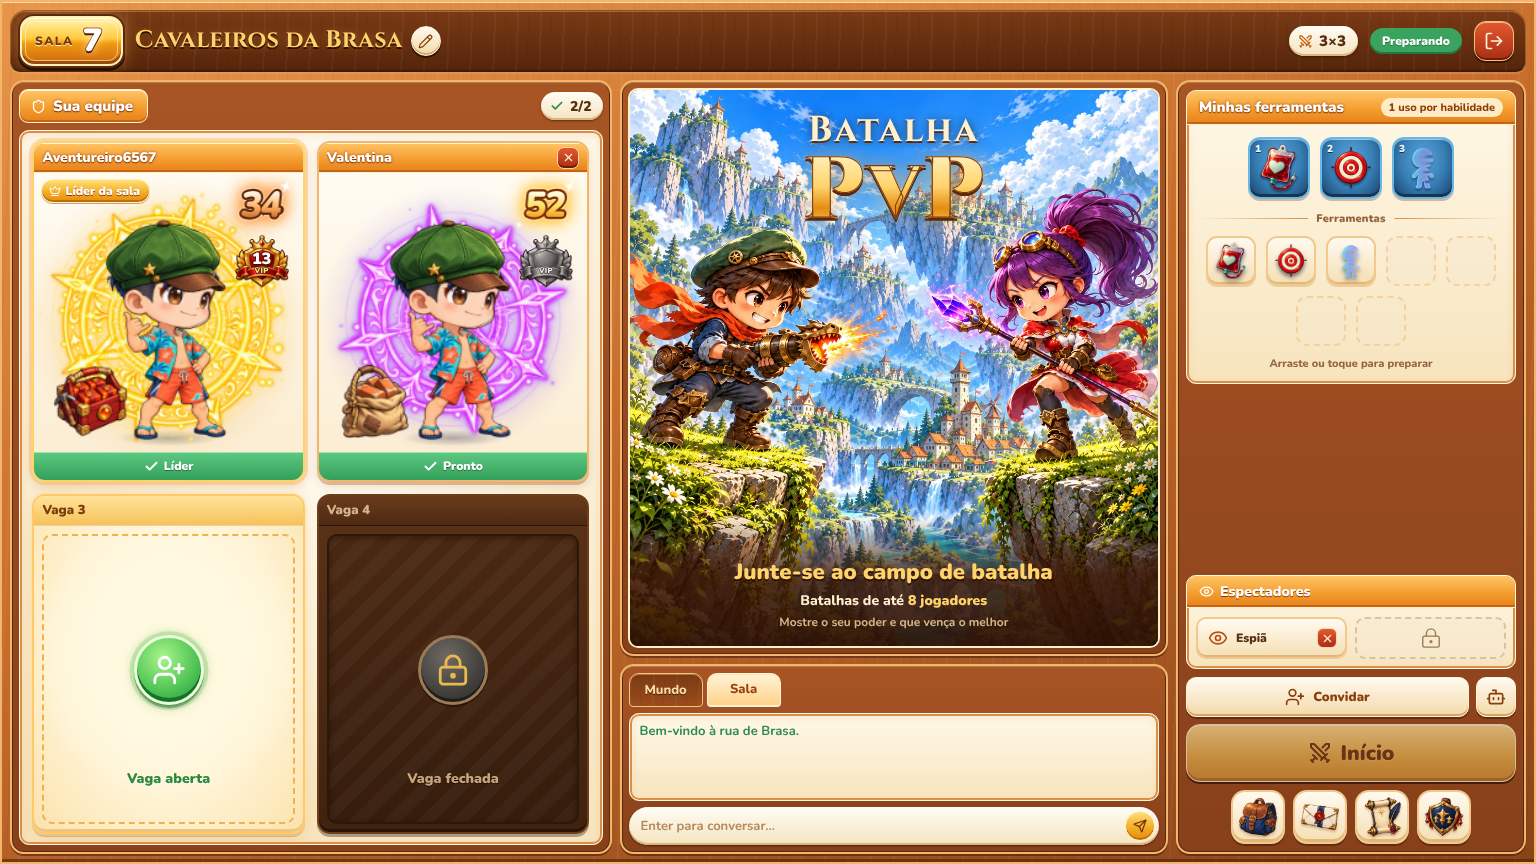
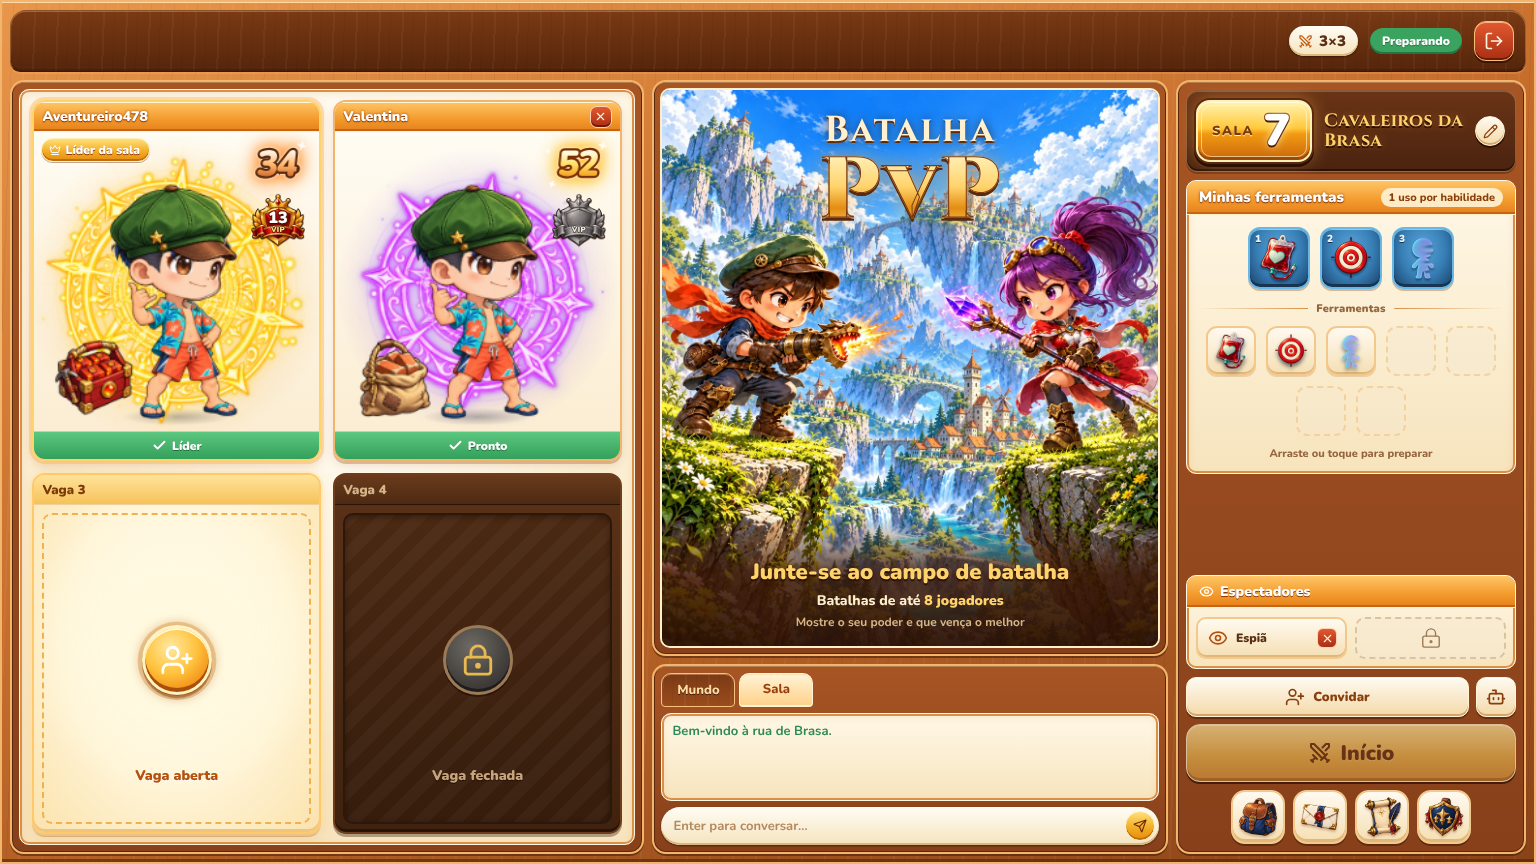
Gold open seat, room plaque above the tools, no team header
Open seat uses the gold button emblem instead of green. The room number
(bigger) and name move to a plaque on top of the right column, and the
Sua equipe ribbon and ready count are gone so the cards get the space.

Claude-Session: https://claude.ai/code/session_016cokYZuSYov3BwbyjMp7VU

diff --git a/src/components/Arena.css b/src/components/Arena.css
@@ -12,12 +12,17 @@
 
 /* ---------- Barra de título ---------- */
 .pvp-room .pr-titlebar{display:flex;align-items:center;gap:12px;min-width:0;padding:0 11px 0 9px}
-.pvp-room .party-room-number{position:relative;display:flex;align-items:center;gap:7px;flex:none;height:50px;padding:0 16px 0 13px;border:2px solid #fff0b8;border-radius:14px;background:linear-gradient(#fff3b0,#ffc93c 45%,#f29a12 55%,#c9660d);box-shadow:inset 0 1px #fffbe0,inset 0 -3px #9a4a0a,0 0 0 2px #5b2a0e,0 3px 0 2px #2c1004,0 0 18px #ffb44f88;color:#fff;line-height:1}
+.pvp-room .party-room-number{position:relative;display:flex;align-items:center;gap:8px;flex:none;height:62px;padding:0 18px 0 14px;border:2px solid #fff0b8;border-radius:14px;background:linear-gradient(#fff3b0,#ffc93c 45%,#f29a12 55%,#c9660d);box-shadow:inset 0 1px #fffbe0,inset 0 -3px #9a4a0a,0 0 0 2px #5b2a0e,0 3px 0 2px #2c1004,0 0 18px #ffb44f88;color:#fff;line-height:1}
 .pvp-room .party-room-number::before{content:'';position:absolute;inset:3px;border:1px solid #fff6cf99;border-radius:10px;pointer-events:none}
-.pvp-room .party-room-number span{font-size:12px;font-weight:900;letter-spacing:.12em;text-transform:uppercase;color:#7a3a0a;text-shadow:0 1px #fff4c2}
-.pvp-room .party-room-number strong{min-width:24px;font-size:32px;font-weight:900;text-align:center;color:#fff;-webkit-text-stroke:2px #7a2d04;paint-order:stroke fill;text-shadow:0 2px 0 #4a1a04,0 0 10px #fff1b0}
-.pvp-room .party-room-name{display:flex;align-items:center;gap:8px;flex:0 1 auto;min-width:0}
-.pvp-room .party-room-name h1{min-width:0;margin:0;overflow:hidden;font:700 24px/1.15 'Cinzel',Georgia,serif;letter-spacing:.3px;color:var(--wood-gold);text-overflow:ellipsis;white-space:nowrap;text-shadow:0 2px #2c1004,0 0 12px #ffae4a55}
+.pvp-room .party-room-number span{font-size:13px;font-weight:900;letter-spacing:.12em;text-transform:uppercase;color:#7a3a0a;text-shadow:0 1px #fff4c2}
+.pvp-room .party-room-number strong{min-width:30px;font-size:44px;font-weight:900;text-align:center;color:#fff;-webkit-text-stroke:2.5px #7a2d04;paint-order:stroke fill;text-shadow:0 2px 0 #4a1a04,0 0 10px #fff1b0}
+.pvp-room .party-room-name{display:flex;align-items:center;gap:8px;flex:1 1 auto;min-width:0}
+/* Placa da sala no topo da coluna da direita: número grande e nome. */
+.pvp-room .pr-room-plaque{display:flex;align-items:center;gap:12px;flex:none;min-width:0;padding:9px 10px 9px 9px;border:1px solid #ffc78a55;border-radius:12px;background:linear-gradient(#6a3416,#4a2310);box-shadow:inset 0 1px #ffc78a44,inset 0 -2px #2a1206,0 2px #2a120655}
+.pvp-room .pr-titlebar .pr-format{margin-left:auto}
+.pvp-room .pr-room-plaque .party-room-name h1{display:-webkit-box;-webkit-box-orient:vertical;-webkit-line-clamp:2;font-size:18px;line-height:1.12;white-space:normal;overflow-wrap:anywhere}
+html.mobile-landscape .pvp-room .pr-room-plaque .party-room-name h1{font-size:12px}
+.pvp-room .party-room-name h1{min-width:0;margin:0;overflow:hidden;font:700 20px/1.15 'Cinzel',Georgia,serif;letter-spacing:.3px;color:var(--wood-gold);text-overflow:ellipsis;white-space:nowrap;text-shadow:0 2px #2c1004,0 0 12px #ffae4a55}
 .pvp-room .party-rename-button{display:grid;place-items:center;flex:none;width:30px;height:30px;padding:0;border:1px solid #fff3d6;border-radius:50%;background:linear-gradient(#fffaf0,#f3d9a9);box-shadow:inset 0 -2px #d4a565,0 2px #2c1004;color:#8a3f0b}
 .pvp-room .party-rename-form{display:flex;align-items:center;gap:5px;height:36px;padding:0 4px 0 12px;border-radius:999px;background:linear-gradient(#fffdf5,#f5e3be);box-shadow:inset 0 -2px #d9b880,0 0 0 2px #fff1c4}
 .pvp-room .party-rename-form input{width:min(260px,32vw);min-width:0;height:100%;padding:0;border:0;outline:0;background:none;color:var(--wood-ink);font-size:16px;font-weight:900}
@@ -32,12 +37,12 @@
 /* ---------- Corpo ---------- */
 /* Desktop: a coluna da equipe tem a largura exata das cartas 4:5 na altura
    disponível, sem sobra nas laterais; a conversa fica sob a faixa PvP. */
-.pvp-room .pr-body{--card-fit:min(310px,calc((100dvh - 177px) / 2 * .8));display:grid;grid-template-columns:calc(var(--card-fit) * 2 + 52px) minmax(0,1fr) clamp(300px,23vw,350px);grid-template-rows:minmax(0,1fr) clamp(140px,22vh,190px);grid-template-areas:"team banner side" "team chat side";gap:8px;min-width:0;min-height:0}
+.pvp-room .pr-body{--card-fit:min(310px,calc((100dvh - 136px) / 2 * .8));display:grid;grid-template-columns:calc(var(--card-fit) * 2 + 52px) minmax(0,1fr) clamp(300px,23vw,350px);grid-template-rows:minmax(0,1fr) clamp(140px,22vh,190px);grid-template-areas:"team banner side" "team chat side";gap:8px;min-width:0;min-height:0}
 .pvp-room .pr-team{grid-area:team}
 .pvp-room .pr-banner{grid-area:banner}
 .pvp-room .pr-chat{grid-area:chat}
 .pvp-room .pr-side{grid-area:side}
-.pvp-room .pr-team{display:grid;grid-template-rows:34px minmax(0,1fr);gap:7px;min-width:0;min-height:0;padding:7px}
+.pvp-room .pr-team{display:grid;grid-template-rows:minmax(0,1fr);gap:7px;min-width:0;min-height:0;padding:7px}
 .pvp-room .pr-pane-title{display:flex;align-items:center;justify-content:space-between;gap:8px;min-width:0}
 .pvp-room .pr-pane-title h2{display:flex;align-items:center;gap:7px;height:100%;margin:0;padding:0 14px 0 11px;border-radius:9px;font-size:15px;font-weight:900}
 .pvp-room .pr-ready-count{height:28px;padding:0 11px 0 9px;font-size:14px}
@@ -71,12 +76,12 @@
 .pvp-room .pr-card-vacant{display:grid;place-items:center;margin:8px;border:2px dashed #f0b24f;border-radius:10px;background:radial-gradient(circle at 50% 42%,#fff9df 0 30%,transparent 70%)}
 .pvp-room .party-slot-toggle{position:absolute;inset:0;display:grid;place-items:center;width:100%;height:100%;padding:0 0 18px;border:0;background:none;color:#fff}
 .pvp-room .party-slot-toggle:disabled{cursor:var(--cursor-arrow);opacity:1}
-.pvp-room .party-vacant-emblem{position:relative;display:grid;place-items:center;width:70px;height:70px;border:3px solid #eaffd9;border-radius:50%;background:radial-gradient(circle at 40% 30%,#a8f58a,#4cc152 60%,#25913a);box-shadow:inset 0 -4px #17702b,0 3px #0d4a1c55,0 0 0 6px #7ee36a33,0 0 18px #6fe35a66;color:#fff;filter:drop-shadow(0 1px #0d4a1c88);transition:transform .15s}
+.pvp-room .party-vacant-emblem{position:relative;display:grid;place-items:center;width:70px;height:70px;border:3px solid #fff3c4;border-radius:50%;background:radial-gradient(circle at 40% 30%,#ffe9a0,#ffc23c 45%,#f2911a 75%,#d06a0c);box-shadow:inset 0 2px #fff7d6,inset 0 -4px #a8500a,0 3px #6b2c0555,0 0 0 6px #ffd27a40,0 0 18px #ffb44f88;color:#fff;filter:drop-shadow(0 1px #8a3a07);transition:transform .15s}
 .pvp-room .open-slot .party-vacant-emblem{animation:pr-open-pulse 2.2s ease-in-out infinite}
 .pvp-room .party-slot-toggle:not(:disabled):hover .party-vacant-emblem{transform:scale(1.07)}
 .pvp-room .party-slot-toggle:focus-visible{outline:3px solid #c25f12;outline-offset:-4px;border-radius:10px}
-.pvp-room .pr-vacant-caption{position:absolute;left:0;right:0;bottom:12%;font-size:14px;font-weight:900;color:#2f8a3c;text-align:center;pointer-events:none;text-shadow:0 1px #fff}
-@keyframes pr-open-pulse{0%,100%{box-shadow:inset 0 -4px #17702b,0 3px #0d4a1c55,0 0 0 4px #7ee36a33,0 0 12px #6fe35a55}50%{box-shadow:inset 0 -4px #17702b,0 3px #0d4a1c55,0 0 0 10px #7ee36a22,0 0 26px #6fe35a88}}
+.pvp-room .pr-vacant-caption{position:absolute;left:0;right:0;bottom:12%;font-size:14px;font-weight:900;color:#b4510f;text-align:center;pointer-events:none;text-shadow:0 1px #fff}
+@keyframes pr-open-pulse{0%,100%{box-shadow:inset 0 2px #fff7d6,inset 0 -4px #a8500a,0 3px #6b2c0555,0 0 0 4px #ffd27a40,0 0 12px #ffb44f66}50%{box-shadow:inset 0 2px #fff7d6,inset 0 -4px #a8500a,0 3px #6b2c0555,0 0 0 11px #ffd27a26,0 0 28px #ffb44faa}}
 /* Vaga fechada: madeira escura, listras apagadas e cadeado de ferro. */
 .pvp-room .pr-card.closed-slot{border-color:#6e3d1c;background:linear-gradient(#5b3218,#3f220f);box-shadow:inset 0 2px #ffffff14,inset 0 -3px #2a1407,0 3px #1d0a0255}
 .pvp-room .closed-slot .pr-card-name--vacant{border-bottom-color:#2a1407;background:linear-gradient(#6a3b1c,#4d2a12);color:#d6b48a}
@@ -197,11 +202,12 @@
 /* ---------- Celular em paisagem ---------- */
 html.mobile-landscape .arena-room-portal .pvp-room{grid-template-rows:42px minmax(0,1fr);gap:5px;padding:max(5px,env(safe-area-inset-top)) max(5px,env(safe-area-inset-right)) max(5px,env(safe-area-inset-bottom)) max(5px,env(safe-area-inset-left));border-width:1px}
 html.mobile-landscape .pvp-room .pr-titlebar{gap:7px;padding:0 4px 0 4px;border-radius:12px 12px 8px 8px}
-html.mobile-landscape .pvp-room .party-room-number{height:34px;gap:4px;padding:0 10px 0 8px;border-width:1px;border-radius:10px;box-shadow:inset 0 1px #fffbe0,inset 0 -2px #9a4a0a,0 0 0 1px #5b2a0e,0 0 10px #ffb44f88}
+html.mobile-landscape .pvp-room .party-room-number{height:40px;gap:4px;padding:0 10px 0 8px;border-width:1px;border-radius:10px;box-shadow:inset 0 1px #fffbe0,inset 0 -2px #9a4a0a,0 0 0 1px #5b2a0e,0 0 10px #ffb44f88}
 html.mobile-landscape .pvp-room .party-room-number::before{inset:2px;border-radius:8px}
 html.mobile-landscape .pvp-room .party-room-number span{font-size:8px}
-html.mobile-landscape .pvp-room .party-room-number strong{min-width:16px;font-size:20px;-webkit-text-stroke:1.5px #7a2d04}
-html.mobile-landscape .pvp-room .party-room-name h1{font-size:16px}
+html.mobile-landscape .pvp-room .party-room-number strong{min-width:18px;font-size:27px;-webkit-text-stroke:1.5px #7a2d04}
+html.mobile-landscape .pvp-room .party-room-name h1{font-size:14px}
+html.mobile-landscape .pvp-room .pr-room-plaque{gap:7px;padding:4px 6px 4px 4px;border-radius:9px}
 html.mobile-landscape .pvp-room .party-rename-button{width:26px;height:26px}
 html.mobile-landscape .pvp-room .party-rename-form{height:30px}
 html.mobile-landscape .pvp-room .party-rename-form input{font-size:13px}
@@ -210,7 +216,7 @@ html.mobile-landscape .pvp-room .pr-room-state{padding:3px 9px;font-size:10px}
 html.mobile-landscape .pvp-room .pr-leave{width:34px;height:34px;border-radius:10px}
 html.mobile-landscape .pvp-room .pr-body{grid-template-columns:minmax(0,1fr) clamp(214px,31vw,290px);grid-template-rows:minmax(0,1fr) clamp(78px,24vh,120px);grid-template-areas:"team side" "chat side";gap:5px}
 html.mobile-landscape .pvp-room .pr-banner{display:none}
-html.mobile-landscape .pvp-room .pr-team{grid-template-rows:24px minmax(0,1fr);gap:4px;padding:4px;border-radius:12px}
+html.mobile-landscape .pvp-room .pr-team{grid-template-rows:minmax(0,1fr);gap:4px;padding:4px;border-radius:12px}
 html.mobile-landscape .pvp-room .pr-pane-title h2{padding:0 10px 0 8px;border-radius:7px;font-size:11px}
 html.mobile-landscape .pvp-room .pr-pane-title h2 svg{width:12px;height:12px}
 html.mobile-landscape .pvp-room .pr-ready-count{height:21px;font-size:11px}

diff --git a/src/components/Arena.tsx b/src/components/Arena.tsx
@@ -97,12 +97,12 @@ export function RoomView({onInventory}:{onInventory:()=>void}){
  const size=room.openSlots.length,stateLabel=searching?'Buscando partida':room.status==='playing'?'Em batalha':'Preparando';
  const controls=<div className="party-room-actions party-primary-actions pr-actions">{message&&<p className="pr-hint" role="status"><Shield size={14}/><span>{message}</span></p>}{!spectator&&<div className="party-invite-row pr-invite-row"><RoomInvitations roomId={room.id} disabled={!canManage||members.length===room.openSlots.length}/>{host&&<button type="button" className="arena-action arena-action--icon party-practice-action" aria-label="Treinar com bots" title="Treinar com bots" disabled={!canStart} onClick={()=>setConfirmPractice(true)}><Bot size={20}/></button>}</div>}{searching?<SearchInProgress startedAt={room.searchStartedAt} offset={offset} host={host} disabled={!online} spectator={spectator}/>:spectator?<div className="party-spectator-status" role="status"><Eye size={18}/><span>Assistindo à sala</span></div>:host?<button className="wood-button party-search-action pr-start" aria-label="Buscar partida" disabled={!canQueue} onClick={()=>client.send({type:'queue'})}><Swords size={24}/><span>Início</span></button>:<button className={`${me?.ready?'wood-quiet':'wood-button'} party-search-action pr-start`} disabled={!waiting||!online||!me?.connected||abilityLoadoutPending} onClick={()=>client.send({type:'ready'})}><Check size={20}/>{me?.ready?'Cancelar pronto':'Estou pronto'}</button>}</div>;
  const content=<section className={`arena-room-stage party-room compact-party-room pvp-room wood-window ${searching?'is-searching':''}`} aria-label={`Sala ${room.name}`}>
-  <header className="party-heading pr-titlebar wood-titlebar"><div className="party-room-number" role="img" aria-label={`Sala ${room.number}`}><span>Sala</span><strong data-value={room.number}>{room.number}</strong></div><RoomName id={room.id} name={room.name} editable={canManage}/><span className="pr-format wood-pill" aria-label={`${size} contra ${size}`}><Swords size={15} aria-hidden="true"/>{size}×{size}</span><span className={`pr-room-state ${searching?'is-searching':''}`}>{stateLabel}</span><button type="button" className="wood-close pr-leave" aria-label="Sair da sala" title="Sair da sala" disabled={!online} onClick={()=>client.send({type:'leave'})}><LogOut size={20}/></button></header>
+  <header className="party-heading pr-titlebar wood-titlebar"><span className="pr-format wood-pill" aria-label={`${size} contra ${size}`}><Swords size={15} aria-hidden="true"/>{size}×{size}</span><span className={`pr-room-state ${searching?'is-searching':''}`}>{stateLabel}</span><button type="button" className="wood-close pr-leave" aria-label="Sair da sala" title="Sair da sala" disabled={!online} onClick={()=>client.send({type:'leave'})}><LogOut size={20}/></button></header>
   <div className="pr-body">
-   <section className="party-team pr-team wood-pane" aria-label="Sua equipe"><header className="pr-pane-title"><h2 className="wood-ribbon"><Shield size={15} aria-hidden="true"/>Sua equipe</h2><span className="pr-ready-count wood-pill" aria-label={`${readyCount} de ${members.length} prontos`}><Check size={14} strokeWidth={3} aria-hidden="true"/>{readyCount}/{members.length}</span></header><div className="pr-team-cards wood-cream"><div className="pr-team-grid">{SLOT_INDICES.map(slot=><PlayerCard key={slot} seat={members.find(member=>member.slot===slot)} slot={slot} open={room.openSlots.includes(slot)} hostId={room.hostId} mine={members.find(member=>member.slot===slot)?.id===profile.id} canManage={canManage}/>)}</div></div></section>
+   <section className="party-team pr-team wood-pane" aria-label="Sua equipe"><div className="pr-team-cards wood-cream"><div className="pr-team-grid">{SLOT_INDICES.map(slot=><PlayerCard key={slot} seat={members.find(member=>member.slot===slot)} slot={slot} open={room.openSlots.includes(slot)} hostId={room.hostId} mine={members.find(member=>member.slot===slot)?.id===profile.id} canManage={canManage}/>)}</div></div></section>
    <div className="party-chat pr-chat wood-pane wood-chat"><Chat/></div>
    <section className="party-pvp-banner pr-banner wood-pane" aria-label="Batalha PvP"><div className="pr-banner-art"><img src="/assets/ui/pvp-room-banner-v2.webp" alt="" draggable={false}/><h2 aria-label="Batalha PvP"><span aria-hidden="true">Batalha</span><strong aria-hidden="true" data-text="PvP">PvP</strong></h2><div className="party-pvp-caption"><h3>Junte-se ao campo de batalha</h3><p>Batalhas de até <strong>8 jogadores</strong></p><span>Mostre o seu poder e que vença o melhor</span></div></div></section>
-   <aside className="pr-side wood-pane"><div className="pr-side-scroll"><AbilityPreparation loadout={abilityLoadoutDraft??normalizeAbilityLoadout(profile.abilityLoadout)} disabled={spectator||!waiting||!online} pending={abilityLoadoutPending} onChange={slots=>client.setAbilityLoadout(slots)}/></div><RoomSpectators players={room.spectators??[]} openSlots={room.spectatorSlots??[]} canManage={host&&online} onToggle={(slot,open)=>client.send({type:'room-spectator-slot',slot,open})} onKick={playerId=>client.send({type:'spectator-kick',playerId})}/>{controls}<RoomMenus equippedOnce={profile.equippedOnce} matches={profile.matches} onInventory={onInventory} disabled={!waiting||!online}/></aside>
+   <aside className="pr-side wood-pane"><div className="pr-room-plaque"><div className="party-room-number" role="img" aria-label={`Sala ${room.number}`}><span>Sala</span><strong data-value={room.number}>{room.number}</strong></div><RoomName id={room.id} name={room.name} editable={canManage}/></div><div className="pr-side-scroll"><AbilityPreparation loadout={abilityLoadoutDraft??normalizeAbilityLoadout(profile.abilityLoadout)} disabled={spectator||!waiting||!online} pending={abilityLoadoutPending} onChange={slots=>client.setAbilityLoadout(slots)}/></div><RoomSpectators players={room.spectators??[]} openSlots={room.spectatorSlots??[]} canManage={host&&online} onToggle={(slot,open)=>client.send({type:'room-spectator-slot',slot,open})} onKick={playerId=>client.send({type:'spectator-kick',playerId})}/>{controls}<RoomMenus equippedOnce={profile.equippedOnce} matches={profile.matches} onInventory={onInventory} disabled={!waiting||!online}/></aside>
   </div>
   {confirmPractice&&<PracticeConfirmation size={room.openSlots.length} onClose={closePractice} enabled={canStart} onStart={()=>{client.send({type:'practice-start'});setConfirmPractice(false);}}/>}
  </section>;
